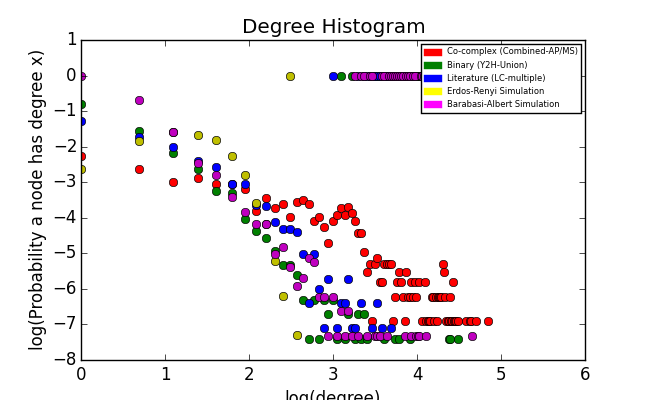
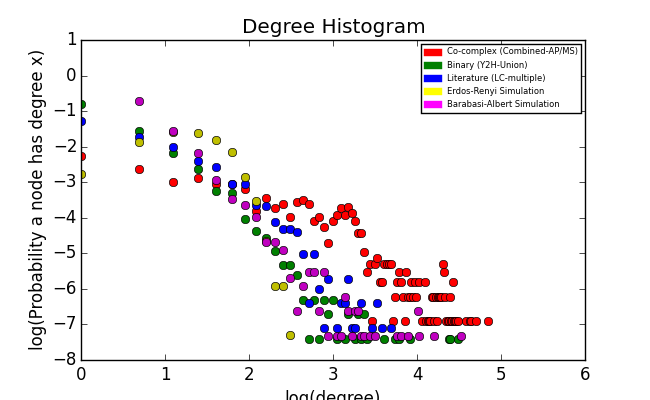
took zeros off the log transformed histogram

diff --git a/hw2.py b/hw2.py
@@ -314,7 +314,7 @@ def plot_deg_hist(prefix,data):
     logy = []
     for b in y:
         if b == 0:
-            logy.append(0)
+            logy.append(float('nan'))
         else:
             logy.append(math.log(b))
 
@@ -360,7 +360,7 @@ def plot_DH_dataset(prefix,data_ls,title_ls=None):
         logy = []
         for b in y:
             if b == 0:
-                logy.append(0)
+                logy.append(float('nan'))
             else:
                 logy.append(math.log(b))
         logxs.append(logx)
